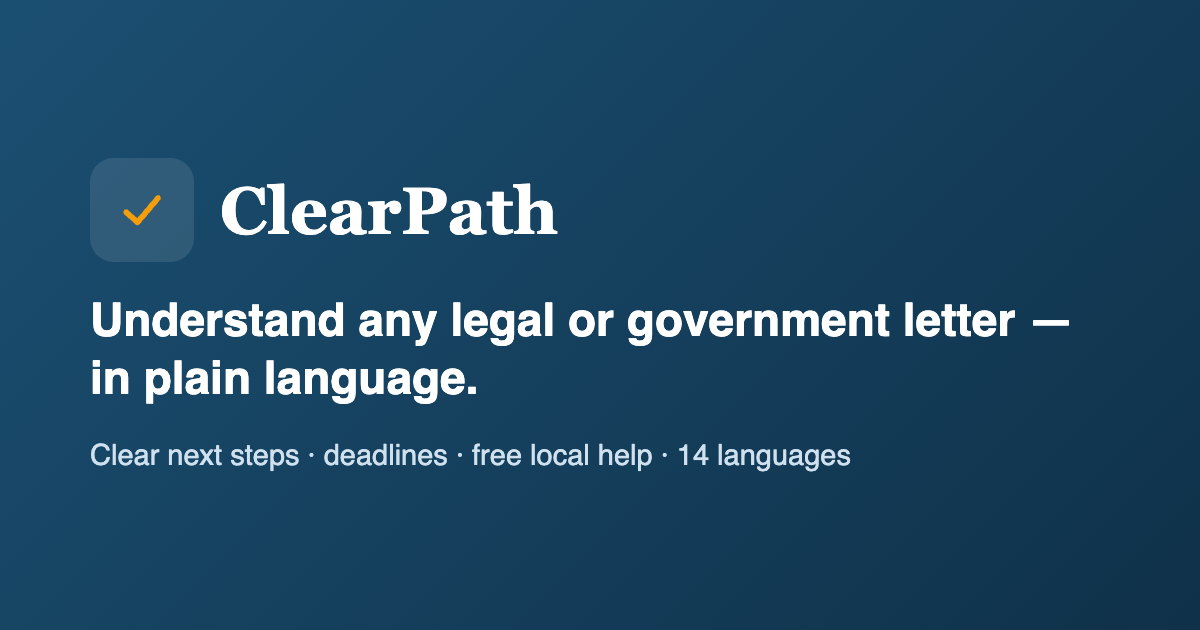
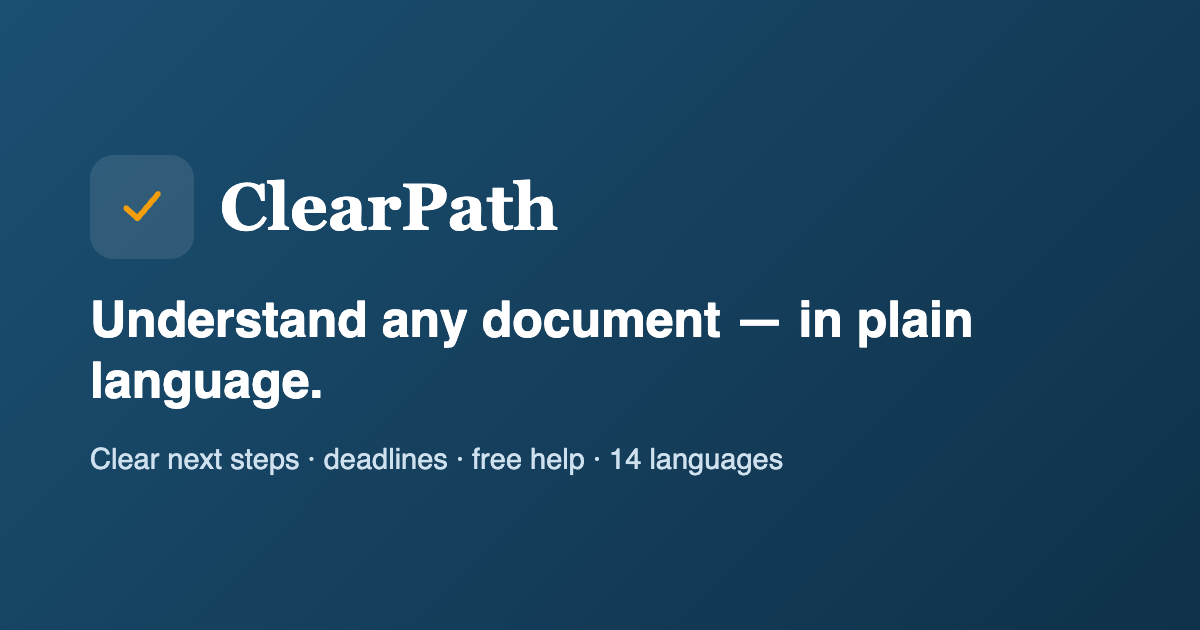
Reframe link preview to 'any document'; add 'not legal advice' note to guide
- Public link preview (title, description, Open Graph, Twitter, OG image) now
  says 'understand any document' instead of 'legal or government letter' — fewer
  legal-advice implications and broader fit (tax forms, bills, etc.).
- Add a discreet but visible 'This is a plain-language explanation… not legal
  advice' note at the end of the step-by-step guide (translated en/es/ar).
- Version the og:image URL so social platforms re-fetch the new share image.

diff --git a/backend/public/index.html b/backend/public/index.html
@@ -6,14 +6,14 @@
     <meta name="theme-color" content="#1b4f72" />
 
     <!-- ===================== SEO ===================== -->
-    <title>ClearPath — Understand Any Legal or Government Letter in Plain Language</title>
+    <title>ClearPath — Understand Any Document in Plain Language</title>
     <meta
       name="description"
-      content="ClearPath uses AI to turn confusing legal and government letters — eviction notices, benefits and Medicaid letters, hospital discharge papers, school and utility notices — into plain-language explanations, clear next steps with deadlines, and free local help. Free, private, no account needed."
+      content="ClearPath uses AI to turn any confusing document — forms, letters, notices, and bills — into a plain-language explanation, clear next steps with deadlines, and free local help. Free, private, no account needed."
     />
     <meta
       name="keywords"
-      content="understand eviction notice, what does my eviction notice mean, benefits letter help, explain legal document, government letter explained, plain language legal help, tenant rights, Medicaid letter, utility shutoff help, free legal aid, 211 resources, AI document reader"
+      content="understand any document, what does this form mean, explain my paperwork, plain language document help, understand a form, understand a letter, help filling out a form, free local help, 211 resources, AI document reader"
     />
     <meta name="author" content="ClearPath" />
     <meta name="application-name" content="ClearPath" />
@@ -23,27 +23,27 @@
     <!-- ===================== Open Graph (Facebook, LinkedIn, iMessage…) ===================== -->
     <meta property="og:type" content="website" />
     <meta property="og:site_name" content="ClearPath" />
-    <meta property="og:title" content="ClearPath — Understand any legal or government letter" />
+    <meta property="og:title" content="ClearPath — Understand any document" />
     <meta
       property="og:description"
-      content="Snap a photo, upload a PDF, or paste the text. ClearPath explains it in plain language, gives you clear next steps with deadlines, and connects you to free local help — in 14 languages."
+      content="Snap a photo, upload a PDF, or paste the text. ClearPath explains any document in plain language, gives you clear next steps with deadlines, and connects you to free help — in 14 languages."
     />
     <meta property="og:url" content="https://clearpath-dtrg.onrender.com/" />
-    <meta property="og:image" content="https://clearpath-dtrg.onrender.com/og-image.png" />
+    <meta property="og:image" content="https://clearpath-dtrg.onrender.com/og-image.png?v=2" />
     <meta property="og:image:width" content="1200" />
     <meta property="og:image:height" content="630" />
-    <meta property="og:image:alt" content="ClearPath — understand any legal or government letter in plain language" />
+    <meta property="og:image:alt" content="ClearPath — understand any document in plain language" />
     <meta property="og:locale" content="en_US" />
 
     <!-- ===================== Twitter / X Card ===================== -->
     <meta name="twitter:card" content="summary_large_image" />
-    <meta name="twitter:title" content="ClearPath — Understand any legal or government letter" />
+    <meta name="twitter:title" content="ClearPath — Understand any document" />
     <meta
       name="twitter:description"
-      content="AI that turns confusing legal and government letters into plain language, clear next steps with deadlines, and free local help. Free, private, 14 languages."
+      content="AI that turns any confusing document into plain language, clear next steps with deadlines, and free help. Free, private, 14 languages."
     />
-    <meta name="twitter:image" content="https://clearpath-dtrg.onrender.com/og-image.png" />
-    <meta name="twitter:image:alt" content="ClearPath — understand any legal or government letter in plain language" />
+    <meta name="twitter:image" content="https://clearpath-dtrg.onrender.com/og-image.png?v=2" />
+    <meta name="twitter:image:alt" content="ClearPath — understand any document in plain language" />
 
     <!-- ===================== Icons / PWA ===================== -->
     <link rel="icon" href="/favicon.svg" type="image/svg+xml" />
@@ -61,8 +61,8 @@
         "@type": "WebApplication",
         "name": "ClearPath",
         "url": "https://clearpath-dtrg.onrender.com/",
-        "description": "ClearPath uses AI to turn confusing legal and government letters into plain-language explanations, clear next steps with deadlines, and free local help.",
-        "applicationCategory": "GovernmentApplication",
+        "description": "ClearPath uses AI to turn any confusing document into plain-language explanations, clear next steps with deadlines, and free help.",
+        "applicationCategory": "UtilitiesApplication",
         "operatingSystem": "Any (web browser)",
         "browserRequirements": "Requires JavaScript",
         "isAccessibleForFree": true,
@@ -71,7 +71,7 @@
       }
     </script>
 
-    <link rel="stylesheet" href="./styles.css?v=3" />
+    <link rel="stylesheet" href="./styles.css?v=4" />
   </head>
   <body>
     <div class="phone" id="phone">
@@ -301,9 +301,9 @@
     <input id="file-camera" type="file" accept="image/*" capture="environment" hidden />
     <input id="file-upload" type="file" accept="image/*,application/pdf" hidden />
 
-    <script src="./translations.js?v=3"></script>
-    <script src="./examples.js?v=3"></script>
-    <script src="./history.js?v=3"></script>
-    <script src="./app.js?v=3"></script>
+    <script src="./translations.js?v=4"></script>
+    <script src="./examples.js?v=4"></script>
+    <script src="./history.js?v=4"></script>
+    <script src="./app.js?v=4"></script>
   </body>
 </html>

diff --git a/backend/public/styles.css b/backend/public/styles.css
@@ -296,6 +296,12 @@ button { font-family: inherit; cursor: pointer; }
 
 /* Disclaimer */
 .disclaimer { font-size: 12px; color: #9ca3af; text-align: center; line-height: 1.5; margin: 18px 6px 6px; }
+/* Discreet "not legal advice" note at the end of the step-by-step guide. */
+.step-disclaimer {
+  margin: 14px 2px 2px; padding-top: 12px;
+  border-top: 1px solid #eef0f3;
+  font-size: 12px; line-height: 1.5; color: var(--muted);
+}
 
 /* Sticky results bar */
 .sticky-bar {

diff --git a/backend/public/translations.js b/backend/public/translations.js
@@ -404,6 +404,7 @@ window.CP_LANG_BY_CODE = Object.fromEntries(window.CP_LANGUAGES.map((l) => [l.co
       error_title: 'We could not complete that', generic_error: 'Something went wrong. Please try again, or call 211 for help.',
       explain_more: 'Explain this step in more detail', breaking_down: 'Breaking this into simple steps…',
       expand_failed: 'Could not break this down right now. Please try again.',
+      not_legal_advice: 'This is a plain-language explanation to help you understand your document — not legal advice.',
     },
     es: {
       cancel: 'Cancelar', camera_hint: 'Alinee su documento dentro del marco y toque Capturar',
@@ -419,6 +420,7 @@ window.CP_LANG_BY_CODE = Object.fromEntries(window.CP_LANGUAGES.map((l) => [l.co
       error_title: 'No pudimos completar eso', generic_error: 'Algo salió mal. Inténtelo de nuevo o llame al 211 para obtener ayuda.',
       explain_more: 'Explicar este paso con más detalle', breaking_down: 'Dividiéndolo en pasos sencillos…',
       expand_failed: 'No se pudo desglosar ahora. Inténtelo de nuevo.',
+      not_legal_advice: 'Esta es una explicación en lenguaje sencillo para ayudarle a entender su documento, no es asesoría legal.',
     },
     ar: {
       cancel: 'إلغاء', camera_hint: 'ضع المستند داخل الإطار واضغط على التقاط',
@@ -434,6 +436,7 @@ window.CP_LANG_BY_CODE = Object.fromEntries(window.CP_LANGUAGES.map((l) => [l.co
       error_title: 'تعذّر علينا إكمال ذلك', generic_error: 'حدث خطأ ما. يرجى المحاولة مرة أخرى، أو اتصل بـ 211 للحصول على المساعدة.',
       explain_more: 'اشرح هذه الخطوة بمزيد من التفصيل', breaking_down: 'جارٍ تقسيمها إلى خطوات بسيطة…',
       expand_failed: 'تعذّر تبسيط هذه الخطوة الآن. حاول مرة أخرى.',
+      not_legal_advice: 'هذا شرح بلغة بسيطة لمساعدتك على فهم مستندك، وليس استشارة قانونية.',
     },
   };
   if (window.CP_STRINGS) {

diff --git a/backend/public/app.js b/backend/public/app.js
@@ -381,6 +381,7 @@ function buildResults(analysis, historyMeta) {
           ${cd ? `<span class="countdown">${esc(cd)}</span>` : ''}
         </div>
         ${steps}
+        <p class="step-disclaimer">${esc(t('not_legal_advice'))}</p>
       </div>`);
   }
 